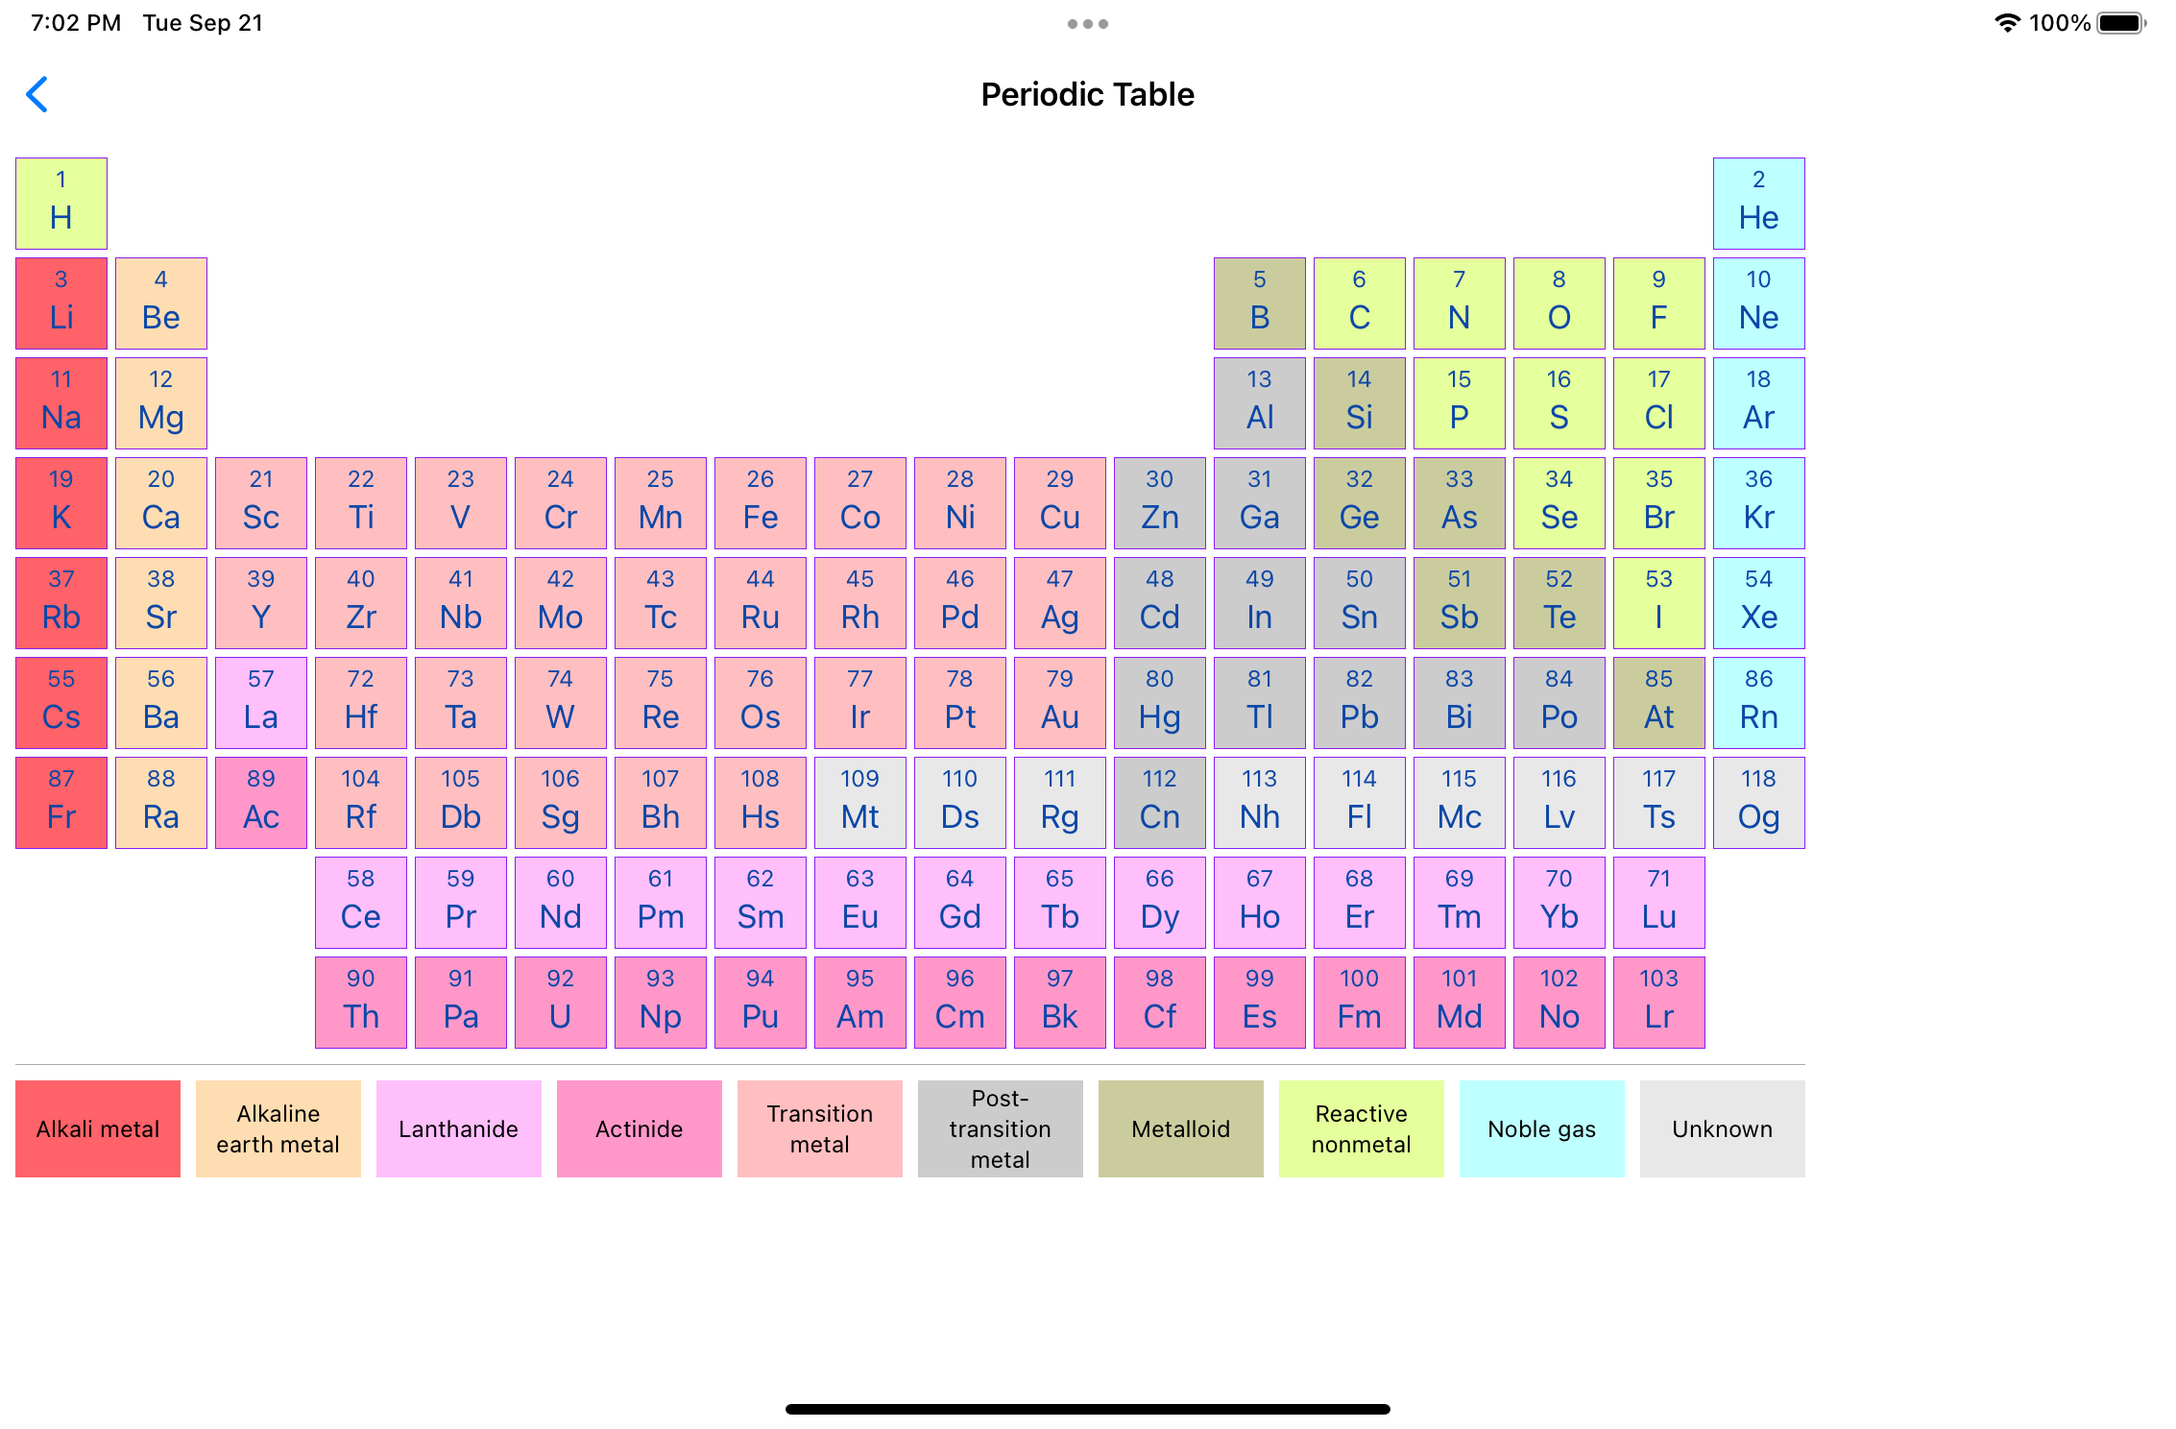
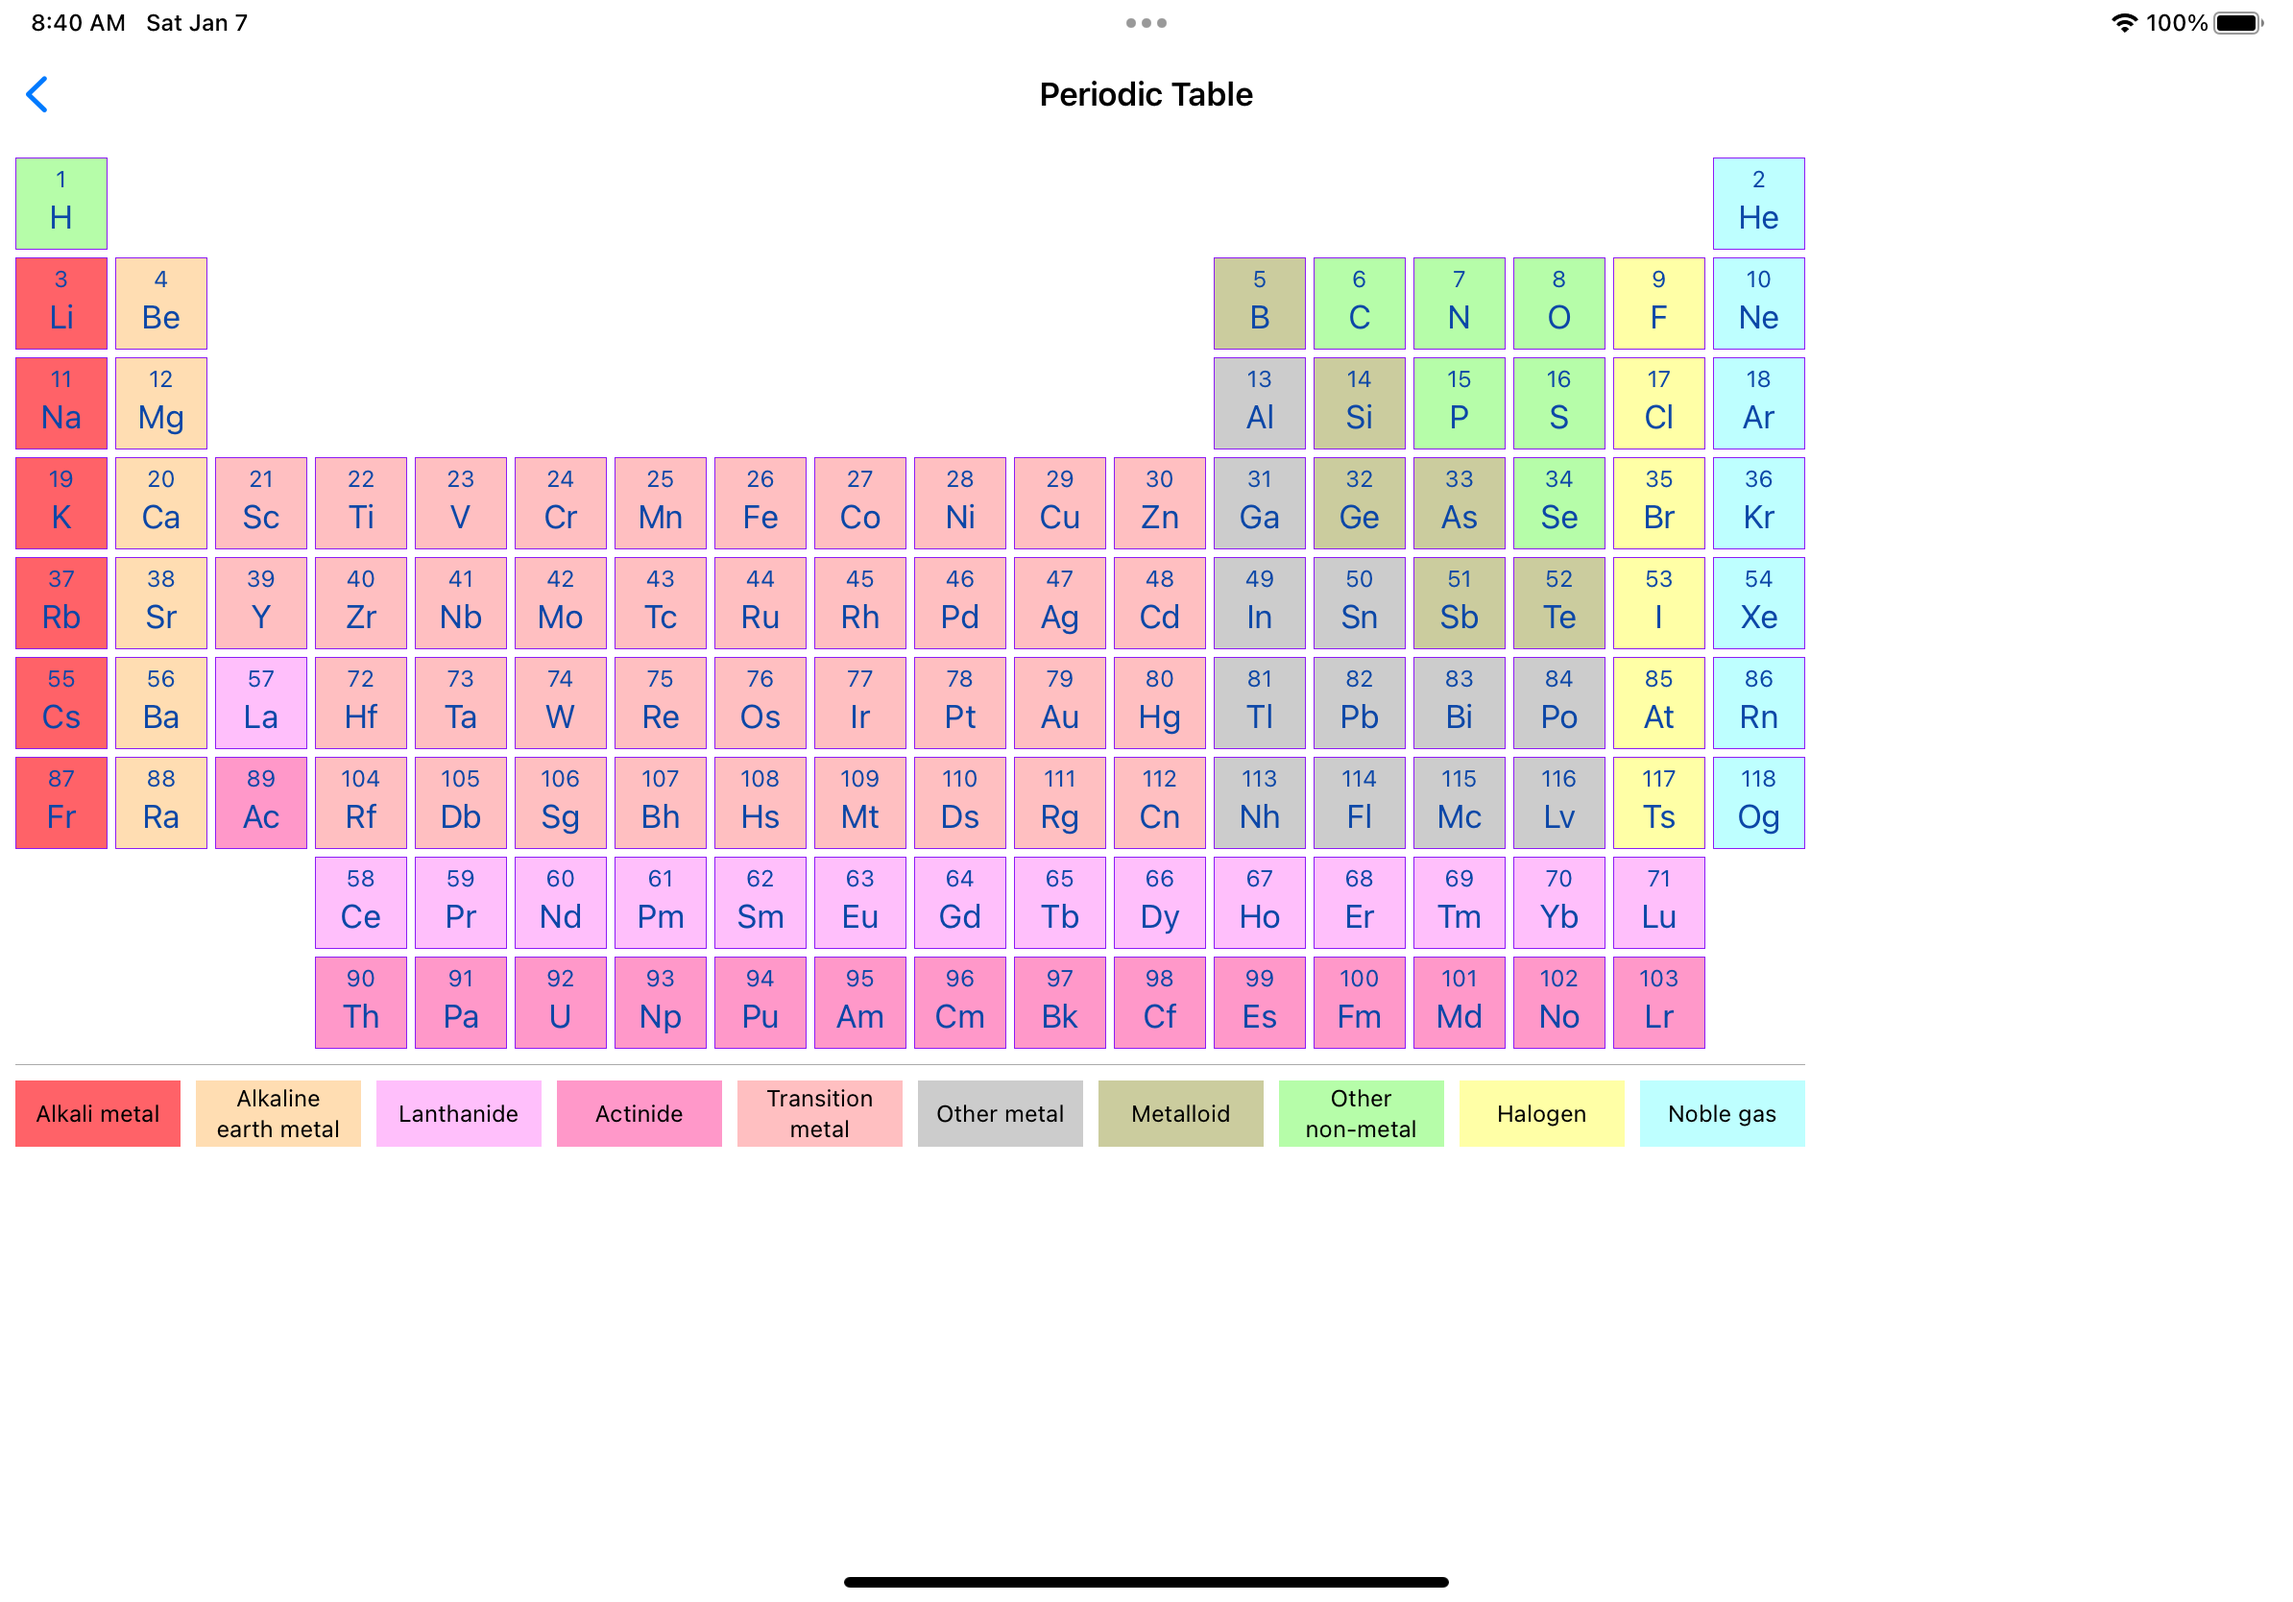
Update periodic table example.

diff --git a/LimaTest/PeriodicTableViewController.swift b/LimaTest/PeriodicTableViewController.swift
@@ -22,11 +22,11 @@ class PeriodicTableViewController: UIViewController {
         case lanthanide
         case actinide
         case transitionMetal
-        case postTransitionMetal
+        case otherMetal
         case metalloid
-        case reactiveNonmetal
+        case otherNonmetal
+        case halogen
         case nobleGas
-        case unknown
 
         var color: UIColor {
             let color: UIColor
@@ -47,20 +47,20 @@ class PeriodicTableViewController: UIViewController {
             case .transitionMetal:
                 color = UIColor(0xffbfc1)
 
-            case .postTransitionMetal:
+            case .otherMetal:
                 color = UIColor(0xcccccc)
 
             case .metalloid:
                 color = UIColor(0xcbcc9e)
 
-            case .reactiveNonmetal:
-                color = UIColor(0xe5ff9c)
+            case .otherNonmetal:
+                color = UIColor(0xb6fda9)
+
+            case .halogen:
+                color = UIColor(0xffffa6)
 
             case .nobleGas:
                 color = UIColor(0xbeffff)
-
-            case .unknown:
-                color = UIColor(0xe8e8e8)
             }
 
             return color
@@ -136,7 +136,7 @@ class PeriodicTableViewController: UIViewController {
             LMColumnView(margin: 8,
                 LMColumnView(spacing: 4,
                     LMRowView(
-                        ElementView(1, "H", .reactiveNonmetal),
+                        ElementView(1, "H", .otherNonmetal),
                         ElementView(),
                         ElementView(),
                         ElementView(),
@@ -170,10 +170,10 @@ class PeriodicTableViewController: UIViewController {
                         ElementView(),
                         ElementView(),
                         ElementView(5, "B", .metalloid),
-                        ElementView(6, "C", .reactiveNonmetal),
-                        ElementView(7, "N", .reactiveNonmetal),
-                        ElementView(8, "O", .reactiveNonmetal),
-                        ElementView(9, "F", .reactiveNonmetal),
+                        ElementView(6, "C", .otherNonmetal),
+                        ElementView(7, "N", .otherNonmetal),
+                        ElementView(8, "O", .otherNonmetal),
+                        ElementView(9, "F", .halogen),
                         ElementView(10, "Ne", .nobleGas),
                         with: rowStyle
                     ),
@@ -190,11 +190,11 @@ class PeriodicTableViewController: UIViewController {
                         ElementView(),
                         ElementView(),
                         ElementView(),
-                        ElementView(13, "Al", .postTransitionMetal),
+                        ElementView(13, "Al", .otherMetal),
                         ElementView(14, "Si", .metalloid),
-                        ElementView(15, "P", .reactiveNonmetal),
-                        ElementView(16, "S", .reactiveNonmetal),
-                        ElementView(17, "Cl", .reactiveNonmetal),
+                        ElementView(15, "P", .otherNonmetal),
+                        ElementView(16, "S", .otherNonmetal),
+                        ElementView(17, "Cl", .halogen),
                         ElementView(18, "Ar", .nobleGas),
                         with: rowStyle
                     ),
@@ -210,12 +210,12 @@ class PeriodicTableViewController: UIViewController {
                         ElementView(27, "Co", .transitionMetal),
                         ElementView(28, "Ni", .transitionMetal),
                         ElementView(29, "Cu", .transitionMetal),
-                        ElementView(30, "Zn", .postTransitionMetal),
-                        ElementView(31, "Ga", .postTransitionMetal),
+                        ElementView(30, "Zn", .transitionMetal),
+                        ElementView(31, "Ga", .otherMetal),
                         ElementView(32, "Ge", .metalloid),
                         ElementView(33, "As", .metalloid),
-                        ElementView(34, "Se", .reactiveNonmetal),
-                        ElementView(35, "Br", .reactiveNonmetal),
+                        ElementView(34, "Se", .otherNonmetal),
+                        ElementView(35, "Br", .halogen),
                         ElementView(36, "Kr", .nobleGas),
                         with: rowStyle
                     ),
@@ -231,12 +231,12 @@ class PeriodicTableViewController: UIViewController {
                         ElementView(45, "Rh", .transitionMetal),
                         ElementView(46, "Pd", .transitionMetal),
                         ElementView(47, "Ag", .transitionMetal),
-                        ElementView(48, "Cd", .postTransitionMetal),
-                        ElementView(49, "In", .postTransitionMetal),
-                        ElementView(50, "Sn", .postTransitionMetal),
+                        ElementView(48, "Cd", .transitionMetal),
+                        ElementView(49, "In", .otherMetal),
+                        ElementView(50, "Sn", .otherMetal),
                         ElementView(51, "Sb", .metalloid),
                         ElementView(52, "Te", .metalloid),
-                        ElementView(53, "I", .reactiveNonmetal),
+                        ElementView(53, "I", .halogen),
                         ElementView(54, "Xe", .nobleGas),
                         with: rowStyle
                     ),
@@ -252,12 +252,12 @@ class PeriodicTableViewController: UIViewController {
                         ElementView(77, "Ir", .transitionMetal),
                         ElementView(78, "Pt", .transitionMetal),
                         ElementView(79, "Au", .transitionMetal),
-                        ElementView(80, "Hg", .postTransitionMetal),
-                        ElementView(81, "Tl", .postTransitionMetal),
-                        ElementView(82, "Pb", .postTransitionMetal),
-                        ElementView(83, "Bi", .postTransitionMetal),
-                        ElementView(84, "Po", .postTransitionMetal),
-                        ElementView(85, "At", .metalloid),
+                        ElementView(80, "Hg", .transitionMetal),
+                        ElementView(81, "Tl", .otherMetal),
+                        ElementView(82, "Pb", .otherMetal),
+                        ElementView(83, "Bi", .otherMetal),
+                        ElementView(84, "Po", .otherMetal),
+                        ElementView(85, "At", .halogen),
                         ElementView(86, "Rn", .nobleGas),
                         with: rowStyle
                     ),
@@ -270,16 +270,16 @@ class PeriodicTableViewController: UIViewController {
                         ElementView(106, "Sg", .transitionMetal),
                         ElementView(107, "Bh", .transitionMetal),
                         ElementView(108, "Hs", .transitionMetal),
-                        ElementView(109, "Mt", .unknown),
-                        ElementView(110, "Ds", .unknown),
-                        ElementView(111, "Rg", .unknown),
-                        ElementView(112, "Cn", .postTransitionMetal),
-                        ElementView(113, "Nh", .unknown),
-                        ElementView(114, "Fl", .unknown),
-                        ElementView(115, "Mc", .unknown),
-                        ElementView(116, "Lv", .unknown),
-                        ElementView(117, "Ts", .unknown),
-                        ElementView(118, "Og", .unknown),
+                        ElementView(109, "Mt", .transitionMetal),
+                        ElementView(110, "Ds", .transitionMetal),
+                        ElementView(111, "Rg", .transitionMetal),
+                        ElementView(112, "Cn", .transitionMetal),
+                        ElementView(113, "Nh", .otherMetal),
+                        ElementView(114, "Fl", .otherMetal),
+                        ElementView(115, "Mc", .otherMetal),
+                        ElementView(116, "Lv", .otherMetal),
+                        ElementView(117, "Ts", .halogen),
+                        ElementView(118, "Og", .nobleGas),
                         with: rowStyle
                     ),
                     LMRowView(
@@ -334,11 +334,11 @@ class PeriodicTableViewController: UIViewController {
                     KeyView("Lanthanide", .lanthanide),
                     KeyView("Actinide", .actinide),
                     KeyView("Transition metal", .transitionMetal),
-                    KeyView("Post-transition metal", .postTransitionMetal),
+                    KeyView("Other metal", .otherMetal),
                     KeyView("Metalloid", .metalloid),
-                    KeyView("Reactive nonmetal", .reactiveNonmetal),
-                    KeyView("Noble gas", .nobleGas),
-                    KeyView("Unknown", .unknown)
+                    KeyView("Other non-metal", .otherNonmetal),
+                    KeyView("Halogen", .halogen),
+                    KeyView("Noble gas", .nobleGas)
                 )
             )
         )

diff --git a/README.md b/README.md
@@ -42,7 +42,7 @@ These classes use layout constraints internally, allowing developers to easily t
 
 For example, the periodic table shown below was constructed using a combination of Lima's layout views and `UILabel` instances:
 
-<img src="README/periodic-table.png" width="683px"/>
+<img src="README/periodic-table.png" width="690px"/>
 
 Lima adds the following properties to `UIView` to customize how subviews are sized and positioned within a parent view:
 
